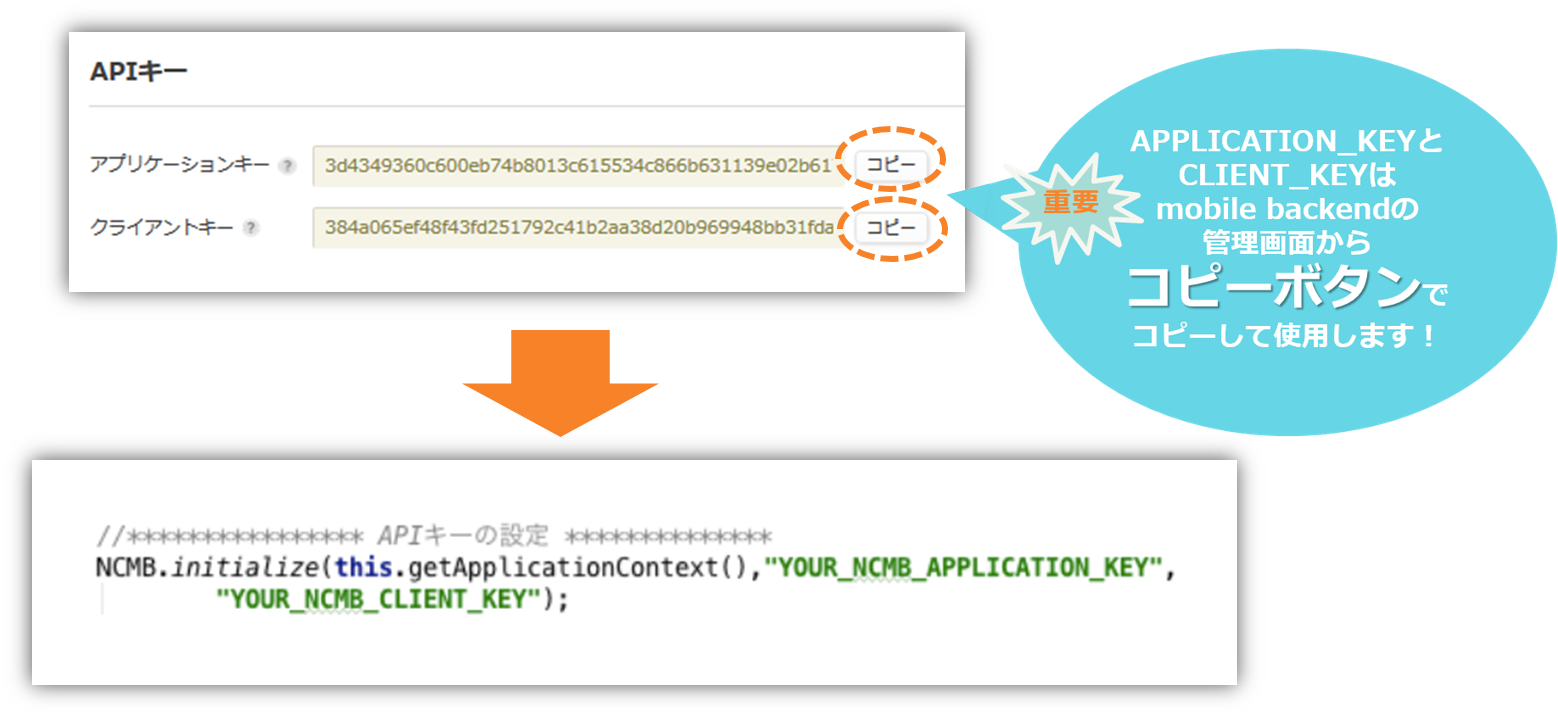
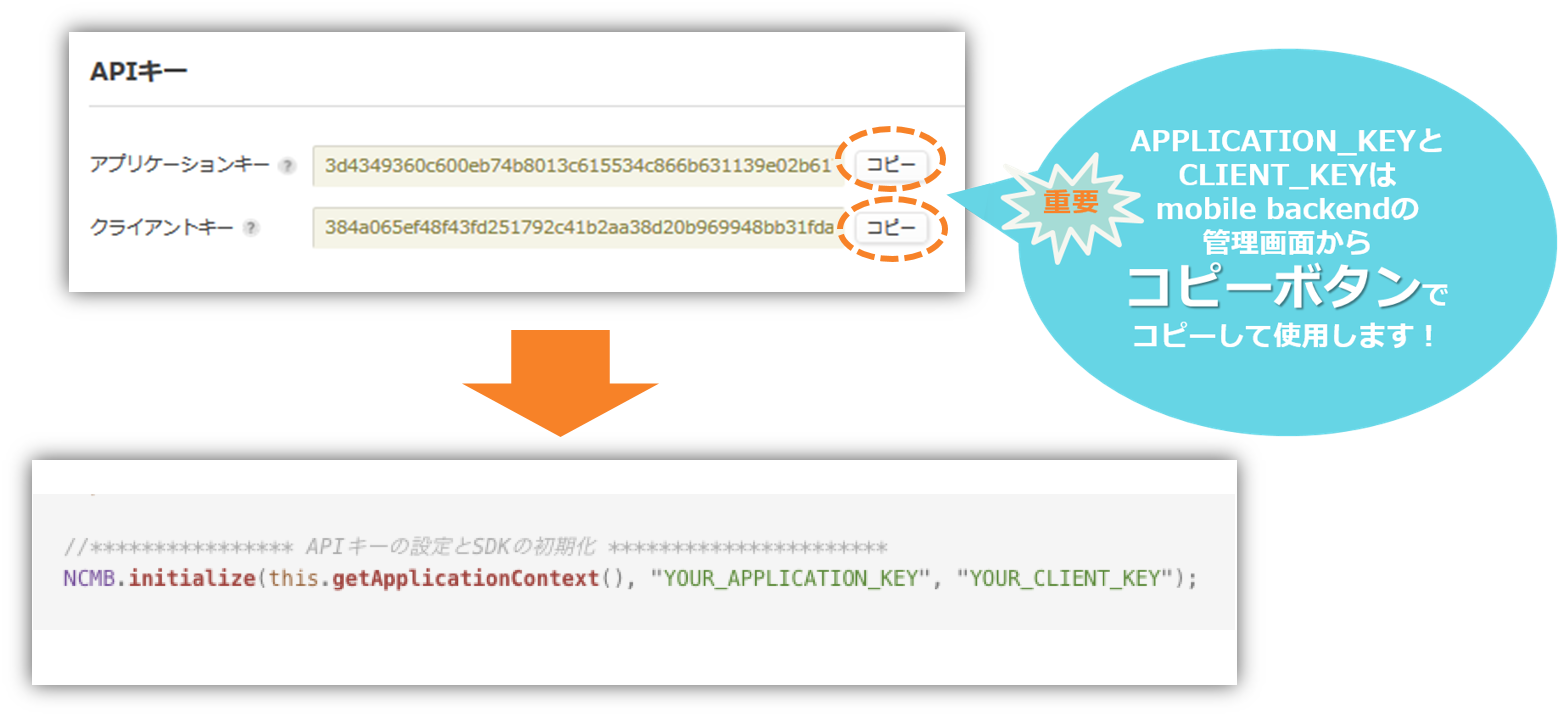
Update image and text

Changed region(s): [[0.0308, 0.7364, 0.7702, 0.8591]]

diff --git a/app/src/main/java/mbaas/com/nifcloud/androidautologinapp/MainActivity.java b/app/src/main/java/mbaas/com/nifcloud/androidautologinapp/MainActivity.java
@@ -27,8 +27,8 @@ public class MainActivity extends AppCompatActivity {
         super.onCreate(savedInstanceState);
 
         //**************** APIキーの設定 **************
-        NCMB.initialize(this.getApplicationContext(),"YOUR_NCMB_APPLICATION_KEY",
-                "YOUR_NCMB_CLIENT_KEY");
+        NCMB.initialize(this.getApplicationContext(),"YOUR_APPLICATION_KEY",
+                "YOUR_CLIENT_KEY");
 
         // UUIDを取得します
         uuid = Secure.getString(getApplicationContext().getContentResolver(),

diff --git a/README.md b/README.md
@@ -84,7 +84,7 @@ dependencies {
 
 ![画像7](readme-img/007.png)
 
-* それぞれ`YOUR_NCMB_APPLICATION_KEY`と`YOUR_NCMB_CLIENT_KEY`の部分を書き換えます
+* それぞれ`YOUR_APPLICATION_KEY`と`YOUR_CLIENT_KEY`の部分を書き換えます
    - このとき、ダブルクォーテーション（`"`）を消さないように注意してください！
 * 書き換え終わったら保存してください
    * Windowsの場合、Ctrl + Sで保存できます。
